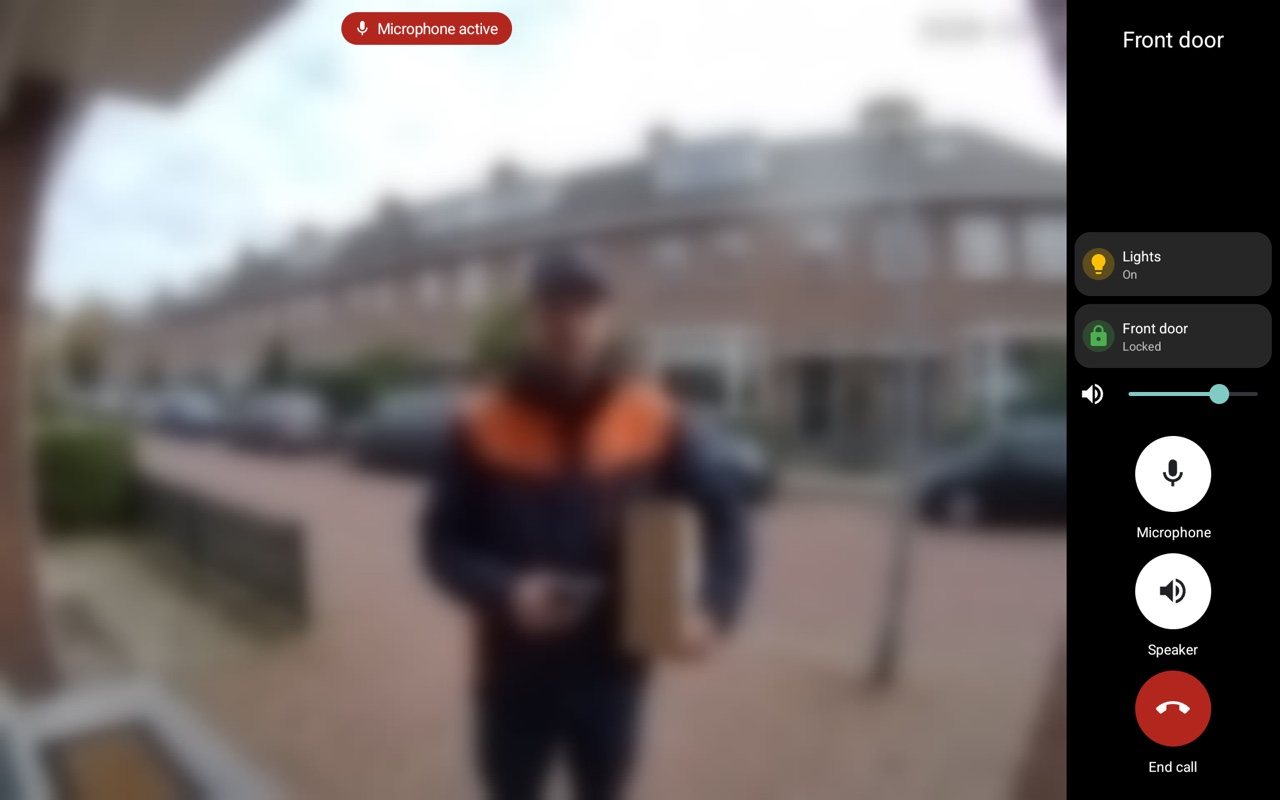
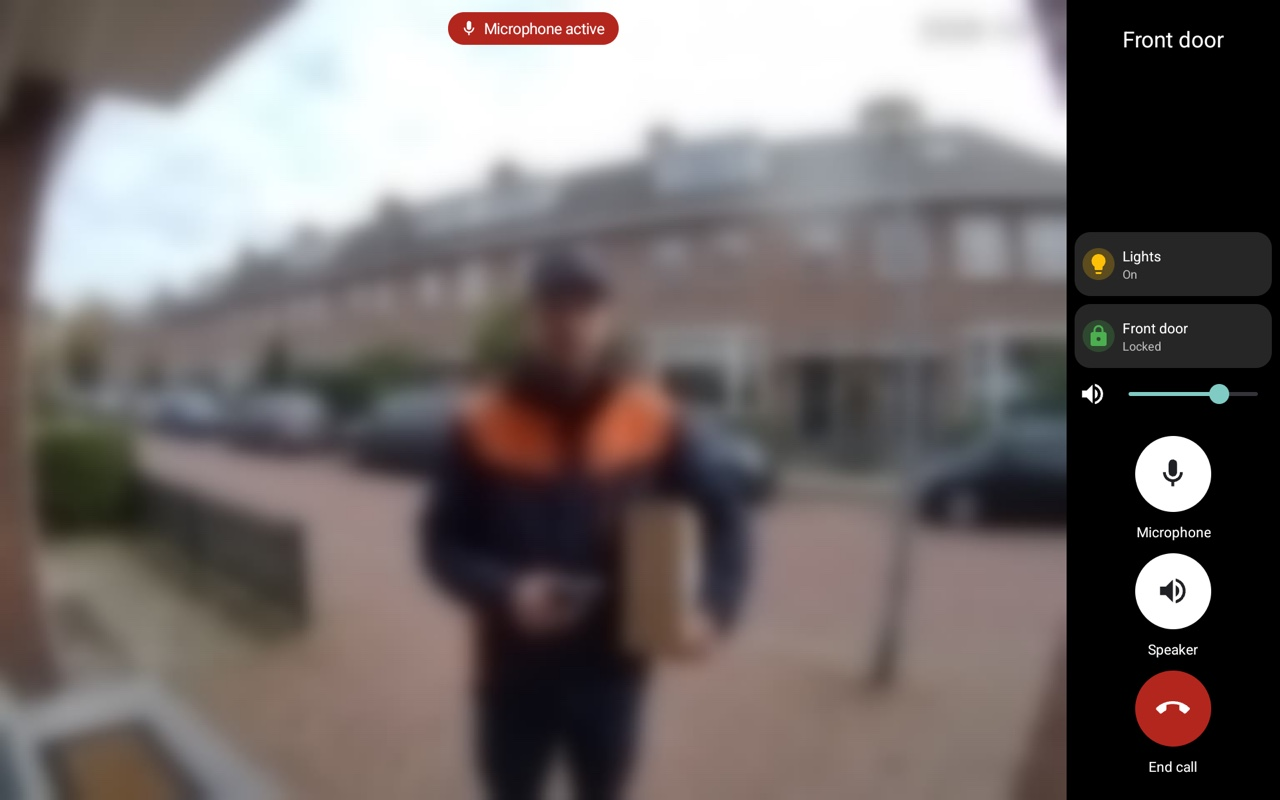
Landscape: the speaking chip centred on the picture, and the slider's room kept
A centred child in a FrameLayout moves by its whole left margin minus its
right one, so the chip sat a column's width too far left whenever only the
right column took space; half of each margin centres it. The volume
slider's room now stays in landscape too, so the cards and buttons no
longer jump when the speaker turns on. Screenshots retaken.

Changed region(s): [[0.25, 0.0, 0.5, 0.0625]]

diff --git a/src/io/github/patrick11994/reolinkdoorbell/DoorbellView.java b/src/io/github/patrick11994/reolinkdoorbell/DoorbellView.java
@@ -260,11 +260,12 @@ final class DoorbellView extends FrameLayout {
                 cardSide.addView(cardBox, new ScrollView.LayoutParams(fill, wrap));
                 addView(cardSide, new LayoutParams(columnPx, LayoutParams.MATCH_PARENT, Gravity.START));
             }
-            // The speaking chip floats at the top middle of the picture, on one line: the screen's middle with cards.
+            // The speaking chip floats at the top middle of the picture, on one line.
             LayoutParams chip = new LayoutParams(LayoutParams.WRAP_CONTENT, LayoutParams.WRAP_CONTENT, Gravity.TOP | Gravity.CENTER_HORIZONTAL);
             chip.topMargin = theme.px(12);
-            chip.leftMargin = videoParams.leftMargin;
-            chip.rightMargin = videoParams.rightMargin;
+            // A centred child moves by its whole left margin minus its right one, so half of each centres it on the picture.
+            chip.leftMargin = videoParams.leftMargin / 2;
+            chip.rightMargin = videoParams.rightMargin / 2;
             addView(speaking, chip);
         } else {
             topBox.addView(title, new LinearLayout.LayoutParams(fill, wrap));
@@ -459,8 +460,9 @@ final class DoorbellView extends FrameLayout {
         title.setText(name);
         speaking.setVisibility(state == State.IN_CALL && micOn ? VISIBLE : GONE);
         speaking.setText(texts.microphoneActive());
-        // Portrait keeps the slider's room, so the picture does not jump when the speaker turns on.
-        volumeRow.setVisibility(speakerOn ? VISIBLE : landscape ? GONE : INVISIBLE);
+        // The slider's room stays, so nothing jumps when the speaker turns on: not the picture in portrait, nor the cards
+        // and buttons in the landscape column (whose button size already counts the slider).
+        volumeRow.setVisibility(speakerOn ? VISIBLE : INVISIBLE);
         // Every position keeps one job: left (top) answers, then is the microphone; middle is the speaker; right
         // (bottom) hangs up.
         // Speaker and microphone are toggles: the same icon and label, the circle shows whether they are on.
